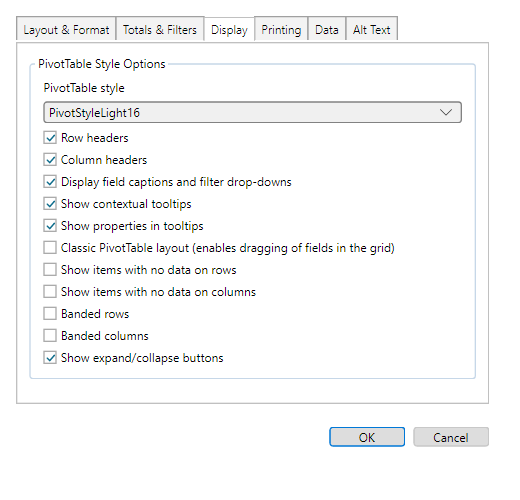
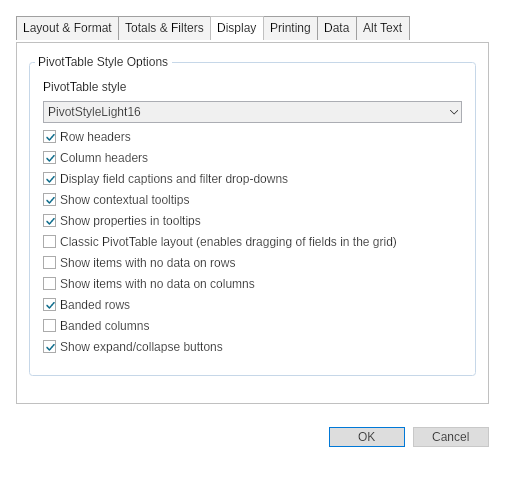
FreeX: align PivotTable Display parity fixture

diff --git a/tests/FreeX.App.Avalonia.Tests/PivotOptionsParitySourceTests.cs b/tests/FreeX.App.Avalonia.Tests/PivotOptionsParitySourceTests.cs
@@ -57,6 +57,53 @@ public sealed class PivotOptionsParitySourceTests
             source.Should().Contain(argument);
     }
 
+    [Fact]
+    public void PivotOptionsParityFixture_SeedsDisplayStyleOptionsLikeWpf()
+    {
+        var source = File.ReadAllText(RepoFile("src", "FreeX.App.Avalonia", "MainWindow.ParityCapture.cs"));
+
+        source.Should().Contain("StyleName = PivotStyleGalleryPlanner.DefaultStyleName,");
+        source.Should().Contain("ShowRowStripes = true,");
+    }
+
+    [Fact]
+    public void PivotOptionsDisplay_UsesSharedDisplayValuesAndLocalizedWpfLabels()
+    {
+        var source = File.ReadAllText(RepoFile("src", "FreeX.App.Avalonia", "MainWindow.PivotOptions.cs"));
+
+        foreach (var value in new[]
+                 {
+                     "values.ShowRowHeaders",
+                     "values.ShowColumnHeaders",
+                     "values.ShowFieldHeaders",
+                     "values.ShowContextualTooltips",
+                     "values.ShowPropertiesInTooltips",
+                     "values.ShowClassicLayout",
+                     "values.ShowItemsWithNoDataOnRows",
+                     "values.ShowItemsWithNoDataOnColumns",
+                     "values.ShowRowStripes",
+                     "values.ShowColumnStripes",
+                     "values.ShowExpandCollapseButtons"
+                 })
+            source.Should().Contain(value);
+
+        foreach (var key in new[]
+                 {
+                     "PivotTableOptions_RowHeaders",
+                     "PivotTableOptions_ColumnHeaders",
+                     "PivotTableOptions_DisplayFieldCaptionsAndFilterDropDowns",
+                     "PivotTableOptions_ShowContextualTooltips",
+                     "PivotTableOptions_ShowPropertiesInTooltips",
+                     "PivotTableOptions_ClassicPivotTableLayoutEnablesDraggingOfFieldsInTheGrid",
+                     "PivotTableOptions_ShowItemsWithNoDataOnRows",
+                     "PivotTableOptions_ShowItemsWithNoDataOnColumns",
+                     "PivotTableOptions_BandedRows",
+                     "PivotTableOptions_BandedColumns",
+                     "PivotTableOptions_ShowExpandCollapseButtons"
+                 })
+            source.Should().Contain($"UiText.Get(\"{key}\")");
+    }
+
     private static string RepoFile(params string[] parts)
     {
         var directory = new DirectoryInfo(AppContext.BaseDirectory);

diff --git a/src/FreeX.App.Avalonia/MainWindow.ParityCapture.cs b/src/FreeX.App.Avalonia/MainWindow.ParityCapture.cs
@@ -2079,6 +2079,8 @@ public sealed partial class MainWindow
             CacheId = cacheId,
             SourceRange = sourceRange,
             TargetRange = targetRange,
+            StyleName = PivotStyleGalleryPlanner.DefaultStyleName,
+            ShowRowStripes = true,
             LastRenderedRange = new GridRange(
                 targetRange.Start,
                 new CellAddress(sheetId, targetRange.Start.Row + 4, targetRange.Start.Col + 2)),

diff --git a/docs/parity/dialog-visual-evidence-summary.md b/docs/parity/dialog-visual-evidence-summary.md
@@ -64,7 +64,6 @@ Outliers are ranked by a deterministic triage score: normalized 32x32 ARGB sampl
 | --- | ---: | ---: | --- | --- | --- | ---: | ---: | ---: | ---: |
 | dialog.DataTable | 360x210 | 360x210 | 540x315 px @ 144 DPI vs 360x210 px @ 96 DPI |  |  | 0.101 | 0.043 | 0.006 | 0.051 |
 | dialog.ChangeChartType | 640x390 | 640x390 | 960x585 px @ 144 DPI vs 640x390 px @ 96 DPI |  |  | 0.077 | 0.046 | 0.005 | 0.027 |
-| dialog.PivotTableOptions.Display | 520x500 | 520x500 | 520x500 px @ 96 DPI vs 520x500 px @ 96 DPI |  |  | 0.069 | 0.045 | 0.006 | 0.019 |
 | dialog.InsertHyperlink | 560x300 | 560x300 | 840x450 px @ 144 DPI vs 560x300 px @ 96 DPI |  |  | 0.069 | 0.037 | 0.002 | 0.030 |
 | dialog.AccessibilityChecker | 360x520 | 360x520 | 360x520 px @ 96 DPI vs 360x520 px @ 96 DPI |  |  | 0.067 | 0.044 | 0.001 | 0.021 |
 | dialog.GoTo | 420x320 | 420x320 | 420x320 px @ 96 DPI vs 420x320 px @ 96 DPI |  |  | 0.066 | 0.027 | 0.011 | 0.028 |
@@ -72,6 +71,7 @@ Outliers are ranked by a deterministic triage score: normalized 32x32 ARGB sampl
 | dialog.ConditionalFormatManage | 560x420 | 560x420 | 840x630 px @ 144 DPI vs 560x420 px @ 96 DPI |  |  | 0.065 | 0.035 | 0.001 | 0.028 |
 | dialog.WatchWindow | 760x320 | 760x320 | 760x320 px @ 96 DPI vs 760x320 px @ 96 DPI |  |  | 0.065 | 0.027 | 0.009 | 0.029 |
 | dialog.ScenarioManager | 360x420 | 360x420 | 540x630 px @ 144 DPI vs 360x420 px @ 96 DPI |  |  | 0.063 | 0.042 | 0.005 | 0.016 |
+| dialog.RenameSheet | 340x150 | 340x150 | 510x225 px @ 144 DPI vs 340x150 px @ 96 DPI |  |  | 0.062 | 0.045 | 0.003 | 0.015 |
 
 ## Scale-Aware Dimension Mismatch Details
 
@@ -153,7 +153,7 @@ These rows have a DPI-normalized checked-in PNG size that disagrees with the dia
 | dialog.PivotTableOptions | dialog.PivotTableOptions.png | 520x676 | 520x676 px @ 96 DPI | True | dialog.PivotTableOptions.png | 520x676 | 520x676 px @ 96 DPI | True | True | 0.046 |
 | dialog.PivotTableOptions.AltText | dialog.PivotTableOptions.AltText.png | 520x500 | 520x500 px @ 96 DPI | True | dialog.PivotTableOptions.AltText.png | 520x500 | 520x500 px @ 96 DPI | True | True | 0.039 |
 | dialog.PivotTableOptions.Data | dialog.PivotTableOptions.Data.png | 520x500 | 520x500 px @ 96 DPI | True | dialog.PivotTableOptions.Data.png | 520x500 | 520x500 px @ 96 DPI | True | True | 0.059 |
-| dialog.PivotTableOptions.Display | dialog.PivotTableOptions.Display.png | 520x500 | 520x500 px @ 96 DPI | True | dialog.PivotTableOptions.Display.png | 520x500 | 520x500 px @ 96 DPI | True | True | 0.069 |
+| dialog.PivotTableOptions.Display | dialog.PivotTableOptions.Display.png | 520x500 | 520x500 px @ 96 DPI | True | dialog.PivotTableOptions.Display.png | 520x500 | 520x500 px @ 96 DPI | True | True | 0.059 |
 | dialog.PivotTableOptions.LayoutAndFormat | dialog.PivotTableOptions.LayoutAndFormat.png | 520x676 | 520x676 px @ 96 DPI | True | dialog.PivotTableOptions.LayoutAndFormat.png | 520x676 | 520x676 px @ 96 DPI | True | True | 0.046 |
 | dialog.PivotTableOptions.Printing | dialog.PivotTableOptions.Printing.png | 520x500 | 520x500 px @ 96 DPI | True | dialog.PivotTableOptions.Printing.png | 520x500 | 520x500 px @ 96 DPI | True | True | 0.041 |
 | dialog.PivotTableOptions.TotalsAndFilters | dialog.PivotTableOptions.TotalsAndFilters.png | 520x500 | 520x500 px @ 96 DPI | True | dialog.PivotTableOptions.TotalsAndFilters.png | 520x500 | 520x500 px @ 96 DPI | True | True | 0.045 |

diff --git a/docs/parity/avalonia-parity-wave144-freex-pivot-display-20260804.md b/docs/parity/avalonia-parity-wave144-freex-pivot-display-20260804.md
@@ -1,0 +1,35 @@
+# FreeX Avalonia Parity Wave 144: PivotTable Options Display
+
+Date: 2026-08-04
+Surface: `dialog.PivotTableOptions.Display`
+Branch: `codex/avalonia-parity-wave144-freex-20260804`
+
+## Finding
+
+The paired WPF/Avalonia evidence had exact logical dimensions (`520x500`) but ranked the Display tab at triage `0.069304`. A fresh Linux/Xvfb capture of the current Avalonia source proved a fixture-state mismatch: WPF's parity fixture explicitly uses `PivotStyleLight16` with banded rows enabled, while Avalonia's `EnsureParityPivot()` relied on the model default for both values. The WPF capture showed `Banded rows` checked; the current Avalonia capture showed it unchecked.
+
+## Change
+
+- Seed the Avalonia parity PivotTable with `PivotStyleGalleryPlanner.DefaultStyleName` and `ShowRowStripes = true`, matching the WPF fixture and shared style contract.
+- Keep the existing Display-tab spacing compensation and shared `PivotOptionsPlanner` state flow unchanged.
+- Add focused source tests covering the fixture state, all Display values, and the WPF-localized Display labels.
+
+## Evidence
+
+The valid refreshed Avalonia PNG is committed at `docs/parity/dialog-visual-assets/avalonia-capture/dialog.PivotTableOptions.Display.png`, with wave-144 provenance in the Avalonia manifest. The regenerated summary reports:
+
+- WPF: `520x500`, nonblank
+- Avalonia: `520x500`, nonblank
+- Logical dimensions: exact match
+- Triage score: `0.058731` (down from `0.069304`; summary markdown rounds this to `0.059`)
+- Paired captured surfaces: `94`
+- Nonblank failures: `0`
+- Paired dimension mismatches: `0`
+
+The capture remains an Avalonia-only Linux/Xvfb render; the WPF counterpart is the retained paired reference. No About files were changed.
+
+## Verification
+
+- `dotnet test tests\FreeX.App.Avalonia.Tests\FreeX.App.Avalonia.Tests.csproj --configuration Release --filter FullyQualifiedName~PivotOptionsParitySourceTests`
+- `powershell.exe -NoProfile -ExecutionPolicy Bypass -File tools\Run-LinuxParityCapture.ps1 -OutputDir artifacts\avalonia-parity-wave144-display-after -PublishDir $env:TEMP\FreeX-wave144-parity-publish -ContainerName freex-wave144-display-after -SurfaceId dialog.PivotTableOptions.Display -Width 520 -Height 500 -TimeoutSeconds 180`
+- `powershell.exe -NoProfile -ExecutionPolicy Bypass -File tools\Generate-DialogVisualEvidenceSummary.ps1`
